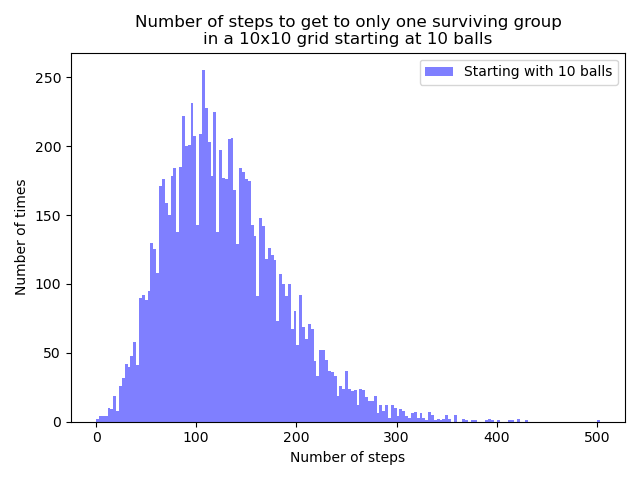
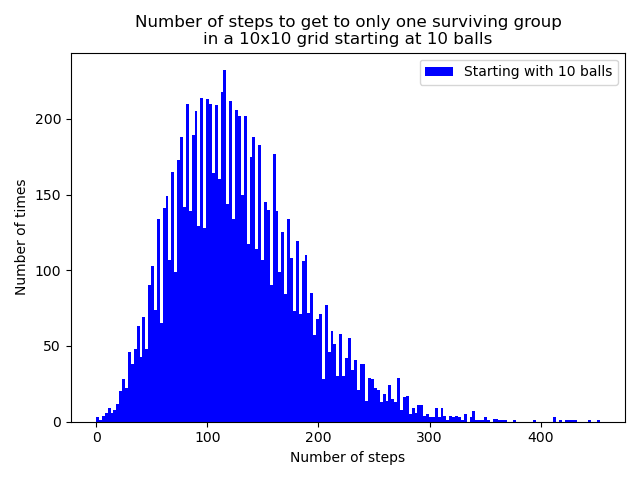
almost done

diff --git a/random-walker-2D-rock-papper-sizors.py b/random-walker-2D-rock-papper-sizors.py
@@ -354,7 +354,7 @@ numberofsteps=10000
 for n in tqdm(range(numberofsteps)):
     #make an array of 1000 zeros
     size=10
-    number_of_balls=10
+    number_of_balls=80
     #make 2d array
     x1 = np.zeros((size,size))
 
@@ -393,18 +393,25 @@ for n in tqdm(range(numberofsteps)):
     number_of_steps=run_this_code(where_points_rock,where_points_paper,where_points_scissors,x1,limit)
     plot_number_of_steps_rock.append(number_of_steps)
     
-
-    
+even=[]
+odd=[]
+for stuff in plot_number_of_steps_rock:
+    if stuff//2==0:
+        even.append(stuff)
+    else:
+        odd.append(stuff)
 
 
 numberofbins=int(len(list(set(plot_number_of_steps_rock)))/2)
-plt.hist(plot_number_of_steps_rock,bins=numberofbins,color="blue",alpha=0.5,label="Starting with {} balls".format(number_of_balls))
+plt.hist(even,bins=1,color="b",label="Even number of iterations".format(number_of_balls))
+plt.hist(odd,bins=1,color="r",label="Odd number of iterations".format(number_of_balls))
+
 plt.legend(loc="upper right")
-plt.xlabel('Number of steps')
+plt.xlabel('Number of iterations')
 plt.ylabel('Number of times')
-plt.title('Number of steps to get to only one surviving group\nin a {}x{} grid starting at {} balls'.format(size,size,number_of_balls))
+plt.title('Even or odd number of iterations\nfor a {}x{} grid starting with {} balls'.format(size,size,number_of_balls))
 #plt.show()
 plt.tight_layout()
-plt.savefig('plots/rock-paper-scissors-{}-{}.png'.format(size,number_of_balls))
+plt.savefig('plots/rock-paper-scissors-even-odd.png'.format(size,number_of_balls))
 
 #"""
